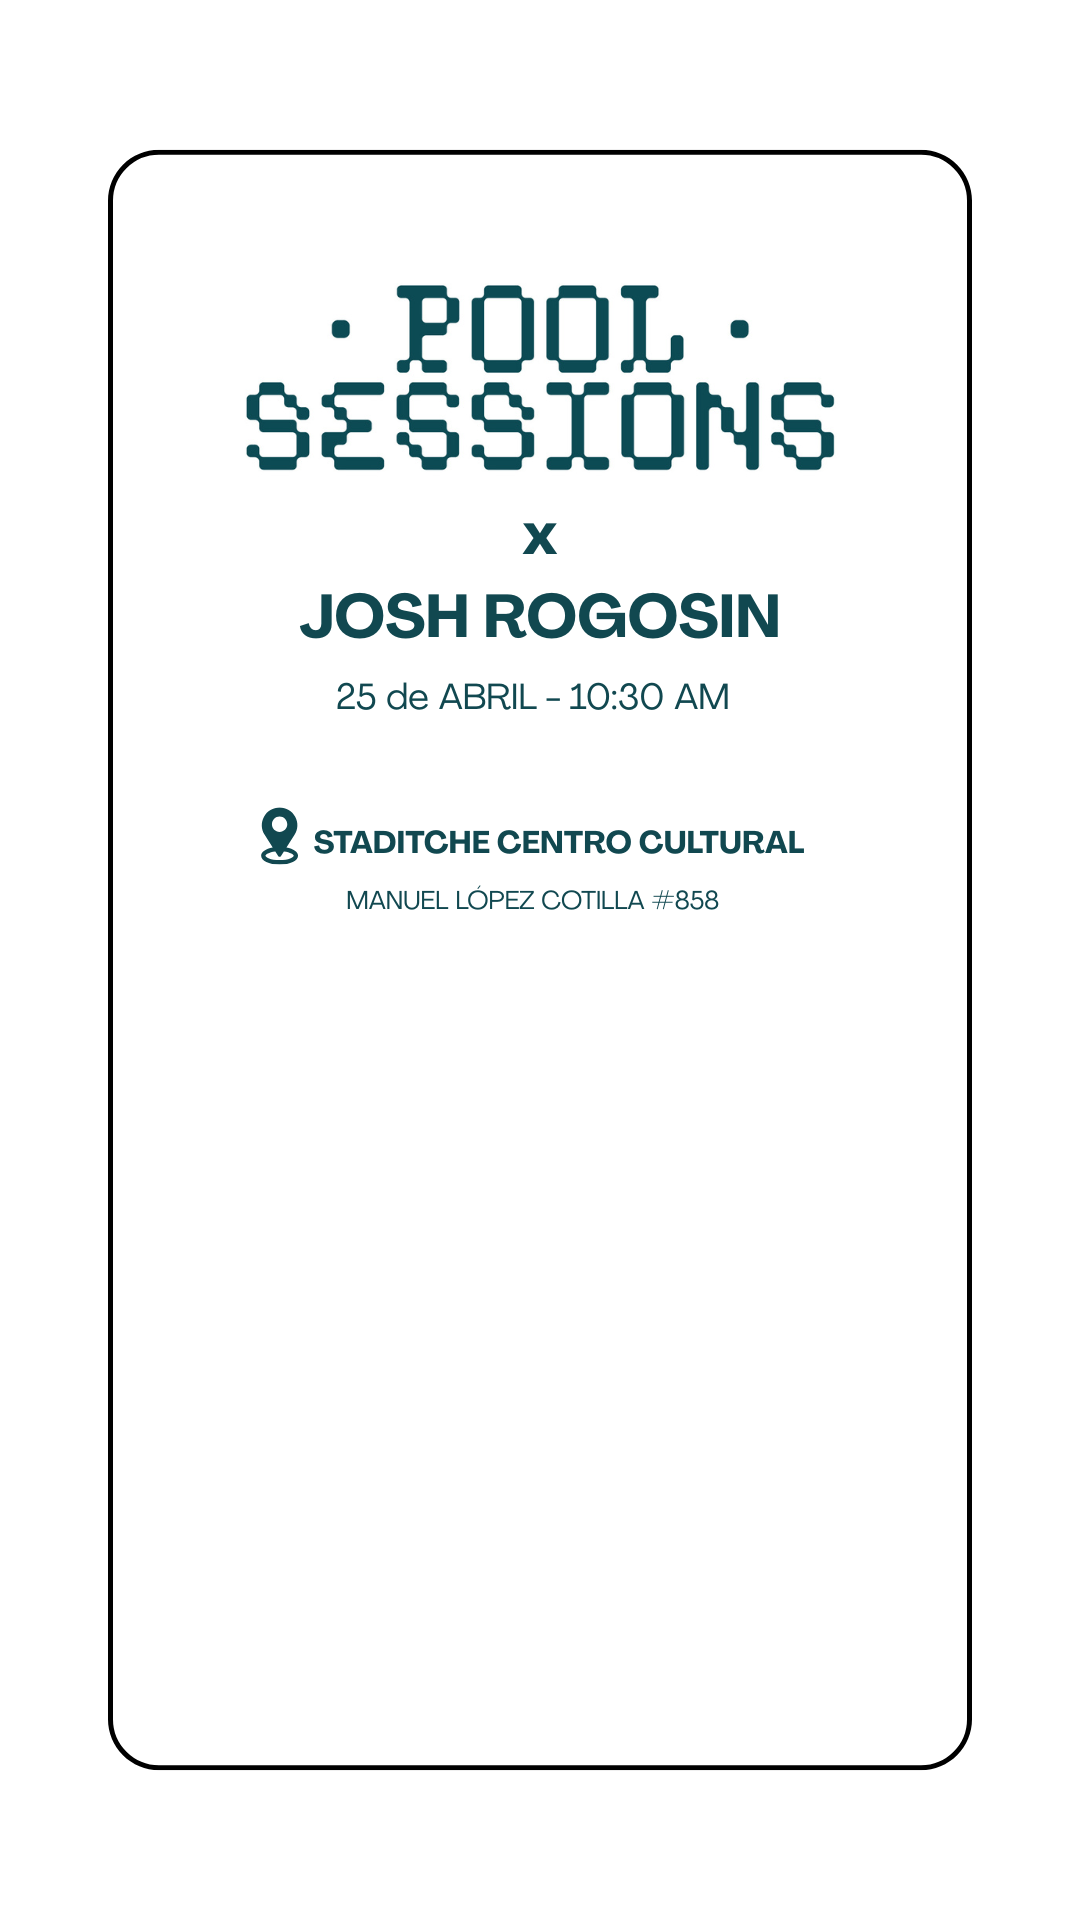
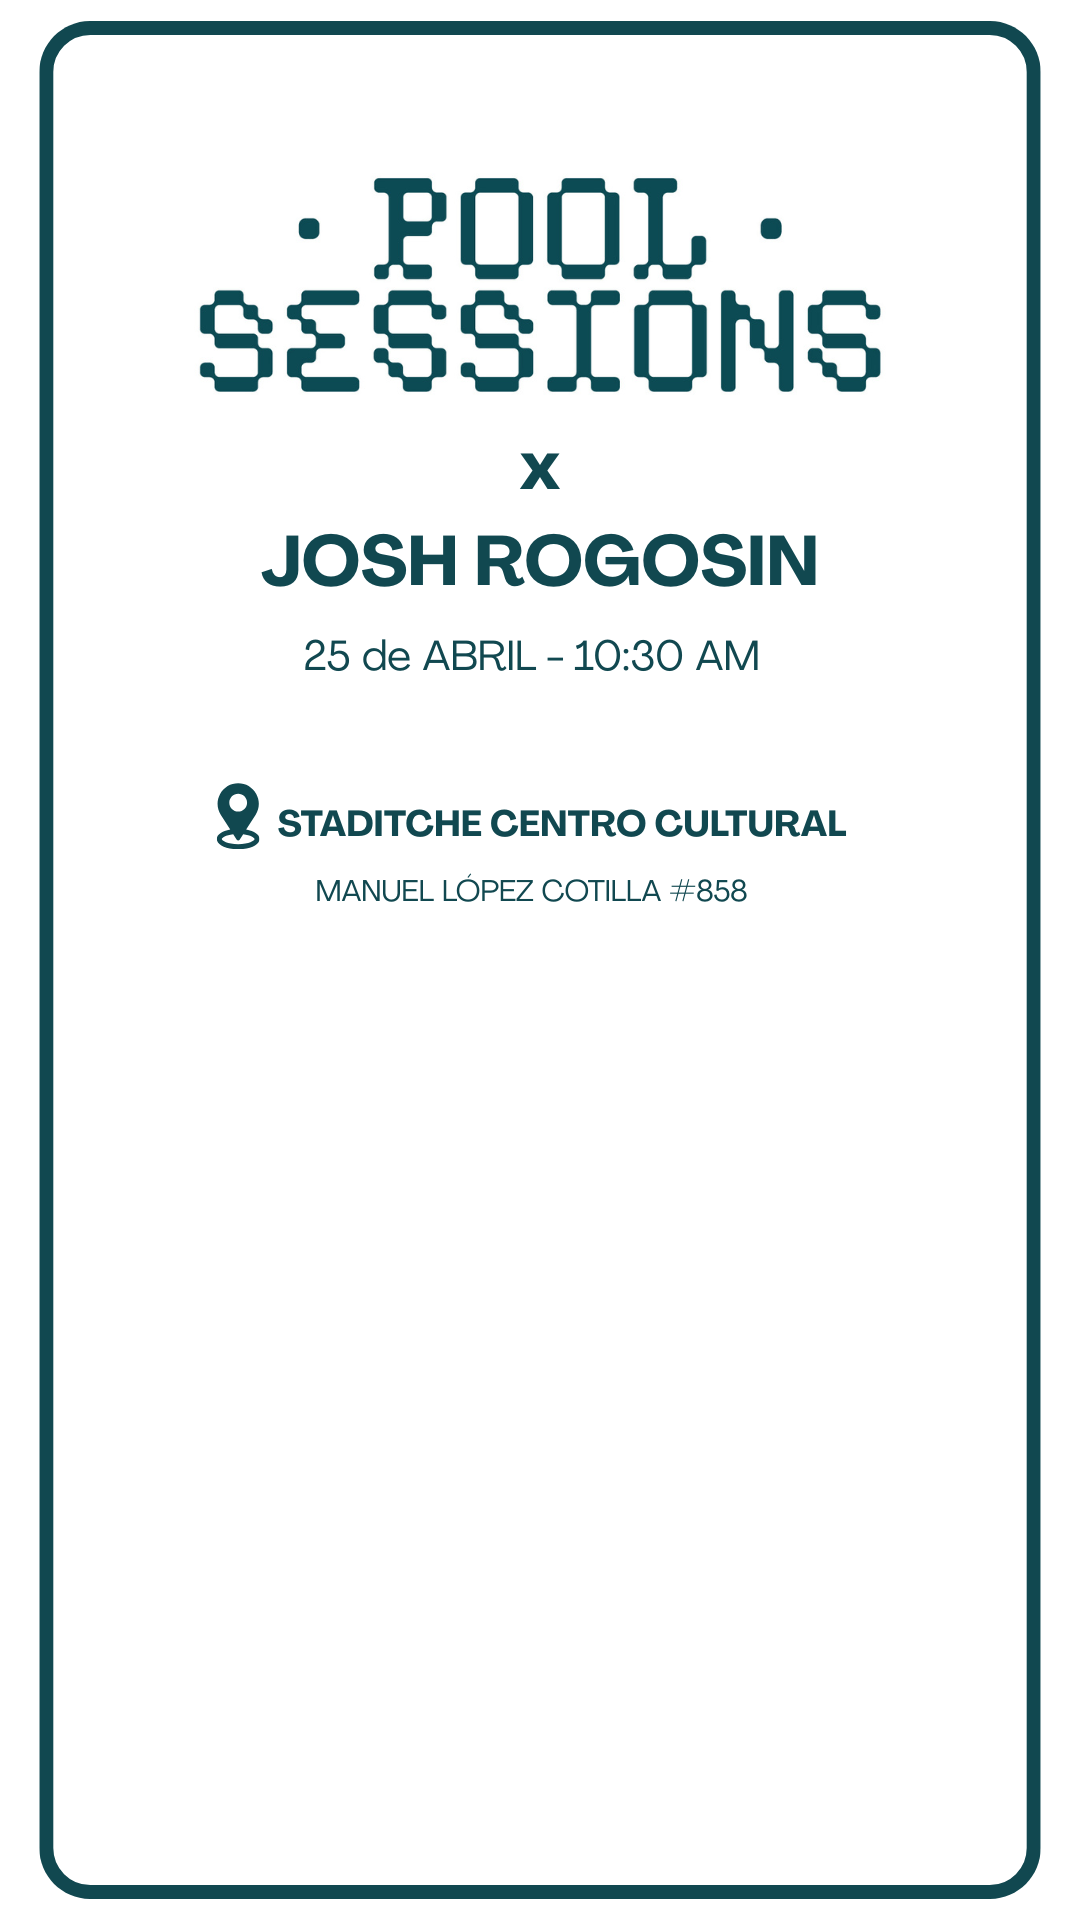
ticket template image

diff --git a/backend/frontend/confirmacion.html b/backend/frontend/confirmacion.html
@@ -37,7 +37,7 @@ h1 {
   bottom: 95px;
   left: 50%;
   transform: translateX(-50%);
-  width: 200px;
+  width: 240px;
   text-align: center;
 }
 
@@ -47,7 +47,7 @@ h1 {
   bottom: 100px;
   width: 100%;
   text-align: center;
-  font-size: 5px;
+  font-size: 6px;
   color: black;
   letter-spacing: 1px;
 }
